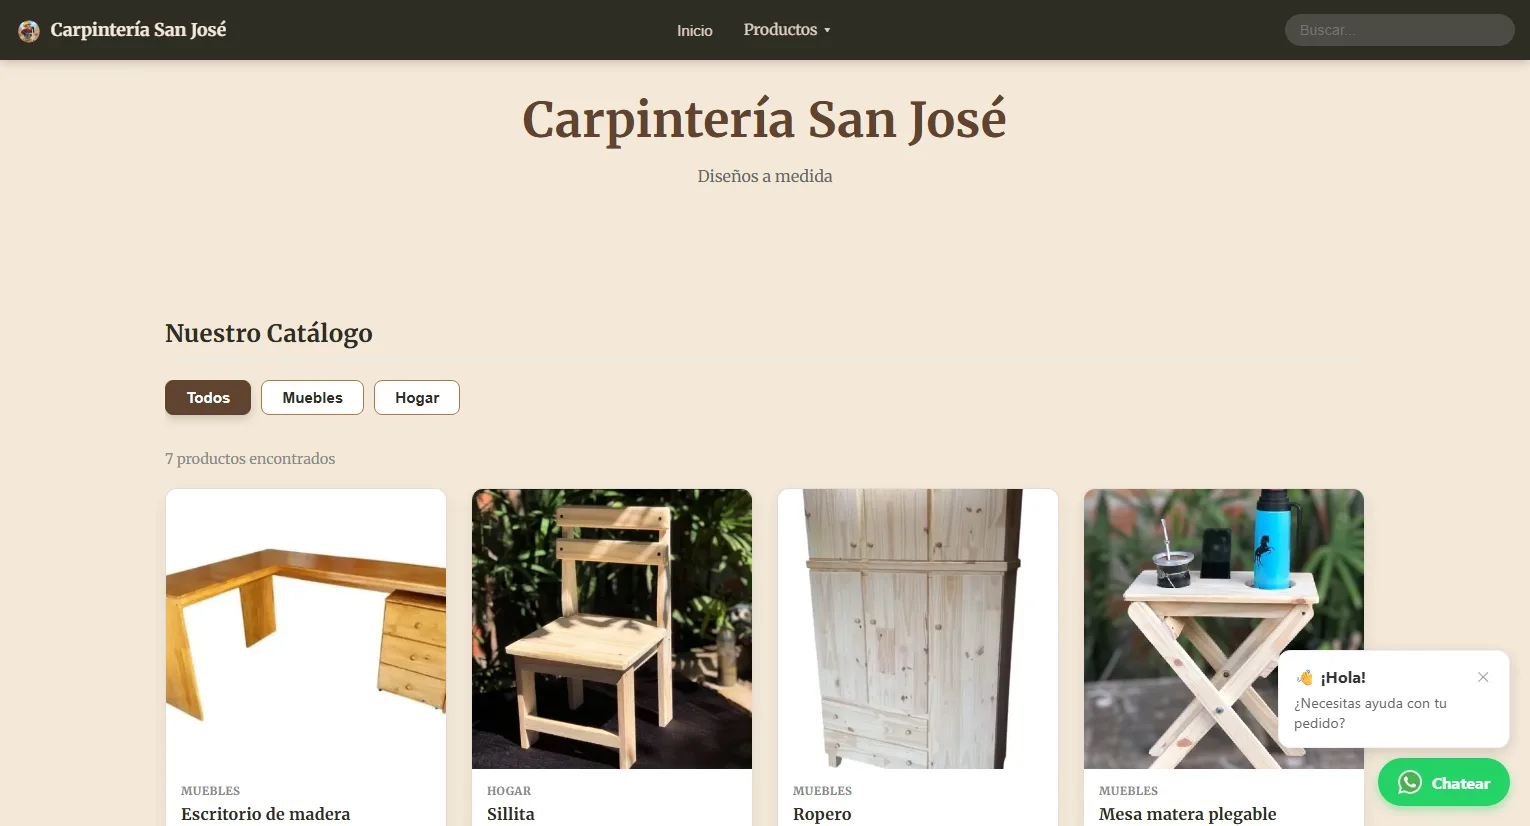
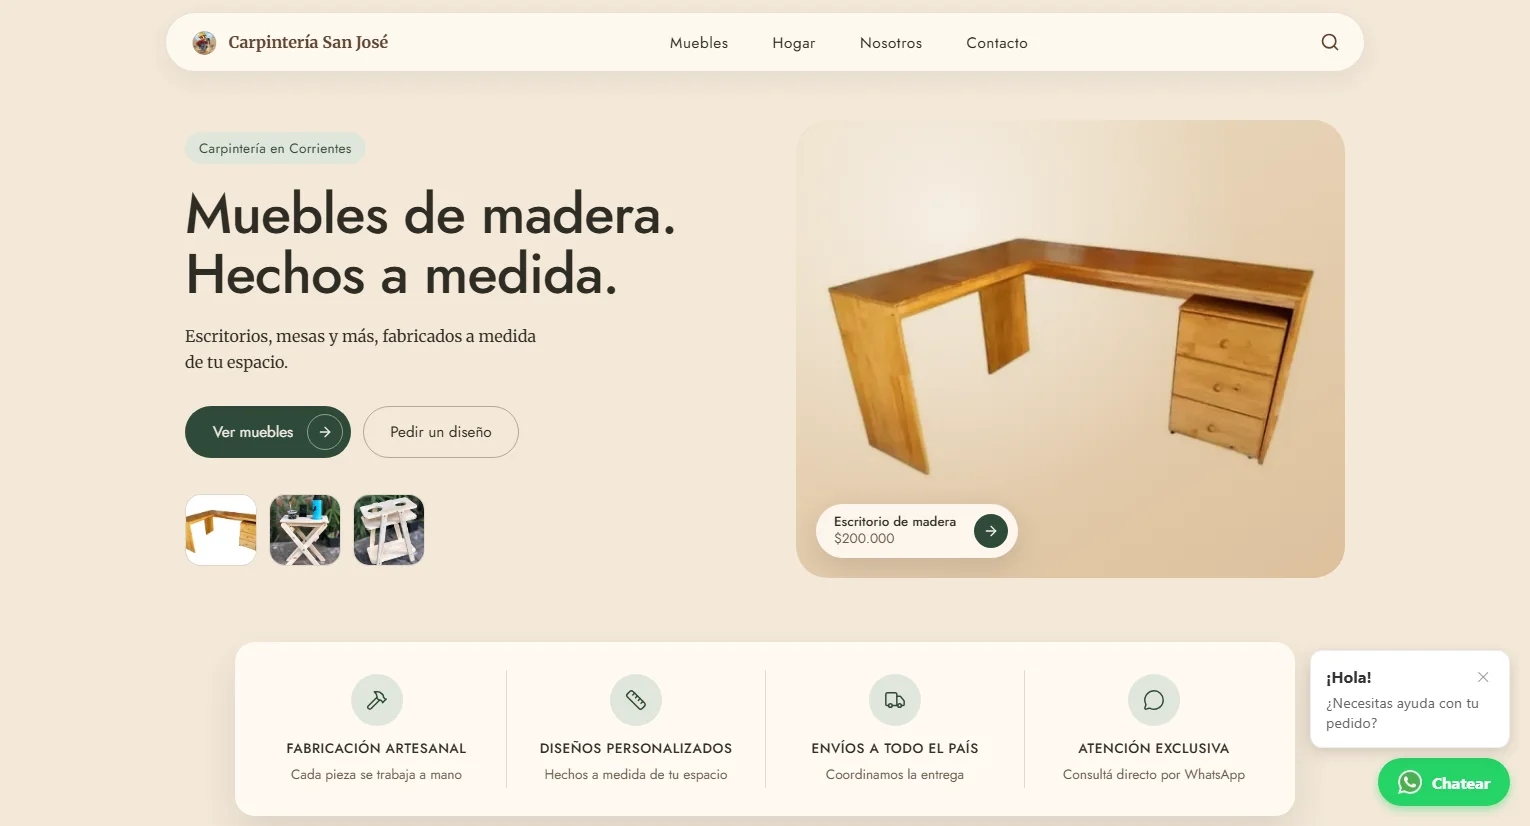
Default to the light theme and update the Carpinteria project cover

diff --git a/src/components/theme-provider.tsx b/src/components/theme-provider.tsx
@@ -9,17 +9,17 @@ import {
   useSyncExternalStore,
 } from "react";
 
-type Theme = "light" | "dark" | "system";
+type Theme = "light" | "dark";
 
 const STORAGE_KEY = "theme";
-const DARK_QUERY = "(prefers-color-scheme: dark)";
 
 /**
  * Script que se ejecuta antes de pintar la pagina para fijar `data-theme` y evitar el parpadeo.
+ * El tema por defecto es el claro; solo se usa el oscuro si la persona lo eligio con el boton.
  * Lo renderiza el servidor en el <head> (ver layout): un <script> dentro de un componente de
  * cliente hace que React 19 avise en consola al navegar entre idiomas.
  */
-export const THEME_INIT_SCRIPT = `(function(){try{var t=localStorage.getItem("${STORAGE_KEY}");var d=t==="dark"||(t!=="light"&&matchMedia("${DARK_QUERY}").matches);document.documentElement.setAttribute("data-theme",d?"dark":"light")}catch(e){}})()`;
+export const THEME_INIT_SCRIPT = `(function(){try{var t=localStorage.getItem("${STORAGE_KEY}");document.documentElement.setAttribute("data-theme",t==="dark"?"dark":"light")}catch(e){}})()`;
 
 const listeners = new Set<() => void>();
 const notify = () => listeners.forEach((listener) => listener());
@@ -27,45 +27,38 @@ const notify = () => listeners.forEach((listener) => listener());
 function subscribe(listener: () => void) {
   listeners.add(listener);
   window.addEventListener("storage", listener);
-  const query = window.matchMedia(DARK_QUERY);
-  query.addEventListener("change", listener);
   return () => {
     listeners.delete(listener);
     window.removeEventListener("storage", listener);
-    query.removeEventListener("change", listener);
   };
 }
 
 // Respaldo para cuando el navegador no deja usar localStorage (modo privado).
-let memoryTheme: Theme = "system";
+let memoryTheme: Theme = "light";
 
 function readTheme(): Theme {
   try {
     const stored = localStorage.getItem(STORAGE_KEY);
-    return stored === "light" || stored === "dark" ? stored : "system";
+    return stored === "dark" ? "dark" : "light";
   } catch {
     return memoryTheme;
   }
 }
 
-const systemPrefersDark = () => window.matchMedia(DARK_QUERY).matches;
-
 type ThemeContextValue = {
   theme: Theme;
-  resolvedTheme: "light" | "dark";
+  resolvedTheme: Theme;
   setTheme: (theme: Theme) => void;
 };
 
 const ThemeContext = createContext<ThemeContextValue | null>(null);
 
 export function ThemeProvider({ children }: { children: React.ReactNode }) {
-  const theme = useSyncExternalStore(subscribe, readTheme, () => "system" as const);
-  const prefersDark = useSyncExternalStore(subscribe, systemPrefersDark, () => false);
-  const resolvedTheme = theme === "system" ? (prefersDark ? "dark" : "light") : theme;
+  const theme = useSyncExternalStore(subscribe, readTheme, () => "light" as const);
 
   useEffect(() => {
-    document.documentElement.setAttribute("data-theme", resolvedTheme);
-  }, [resolvedTheme]);
+    document.documentElement.setAttribute("data-theme", theme);
+  }, [theme]);
 
   const setTheme = useCallback((next: Theme) => {
     memoryTheme = next;
@@ -77,10 +70,7 @@ export function ThemeProvider({ children }: { children: React.ReactNode }) {
     notify();
   }, []);
 
-  const value = useMemo(
-    () => ({ theme, resolvedTheme, setTheme }),
-    [theme, resolvedTheme, setTheme],
-  );
+  const value = useMemo(() => ({ theme, resolvedTheme: theme, setTheme }), [theme, setTheme]);
 
   return <ThemeContext.Provider value={value}>{children}</ThemeContext.Provider>;
 }

diff --git a/jest.setup.ts b/jest.setup.ts
@@ -1,19 +1,1 @@
 import "@testing-library/jest-dom";
-
-// jsdom no implementa matchMedia, que ThemeProvider usa para leer la preferencia del sistema.
-// (Los tests con entorno "node" no tienen window y no lo necesitan.)
-if (typeof window !== "undefined") {
-  Object.defineProperty(window, "matchMedia", {
-    writable: true,
-    value: (query: string) => ({
-      matches: false,
-      media: query,
-      onchange: null,
-      addEventListener: () => {},
-      removeEventListener: () => {},
-      addListener: () => {},
-      removeListener: () => {},
-      dispatchEvent: () => false,
-    }),
-  });
-}

diff --git a/src/app/[locale]/layout.tsx b/src/app/[locale]/layout.tsx
@@ -33,12 +33,9 @@ type Props = {
   params: Promise<{ locale: string }>;
 };
 
-// El color de la barra del navegador en celular acompaña al fondo de cada tema (ver globals.css).
+// El tema por defecto es el claro: el color de la barra del navegador en celular acompana a su fondo.
 export const viewport: Viewport = {
-  themeColor: [
-    { media: "(prefers-color-scheme: light)", color: "#fcf6f6" },
-    { media: "(prefers-color-scheme: dark)", color: "#101a15" },
-  ],
+  themeColor: "#fcf6f6",
 };
 
 export function generateStaticParams() {
